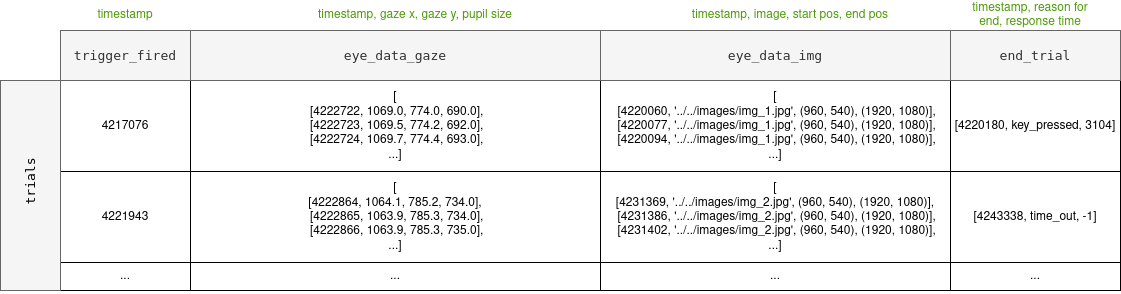
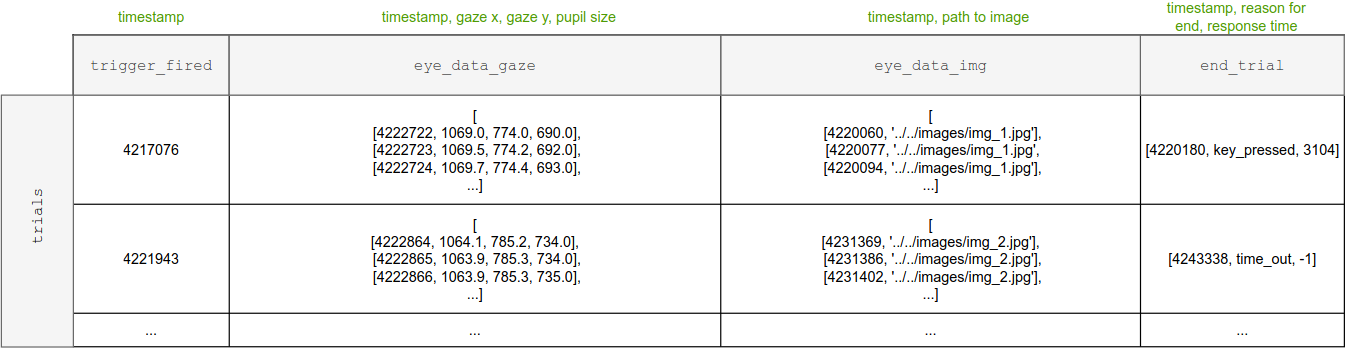
removing redundant information from df

diff --git a/results_parsing.py b/results_parsing.py
@@ -37,9 +37,7 @@ def make_res_df(session_identifier):
                 data_from_line = line.split()
                 img_timestamp = data_from_line[1]  # The timestamp is always in index 1
                 img_name = data_from_line[5]  # The img name (incl relative path) is in index 5
-                start_pos = (int(data_from_line[6]), int(data_from_line[7]))  # Index starting x, y of where to show img
-                end_pos = (int(data_from_line[8]), int(data_from_line[9]))  # Index ending x, y of where to show img
-                image_load_list.append([int(img_timestamp), img_name, start_pos, end_pos])
+                image_load_list.append([int(img_timestamp), img_name])
 
             # [Step 2b]: Start capturing all gaze information (here we check for gaze data events).
             if not any(item.isalpha() for item in line.split()):
@@ -95,9 +93,9 @@ def make_res_df(session_identifier):
 
 
 # For debugging:
-# test_session_identifier = 'test_2023_12_02_13_45'
+test_session_identifier = 'test_2023_12_14_11_38'
 # convert_edf_to_ascii(test_session_identifier)
-# make_res_df(test_session_identifier)
+make_res_df(test_session_identifier)
 # To read back the pickled result:
 # df = pd.read_pickle(f'results/{test_session_identifier}/{test_session_identifier}')
 

diff --git a/README.md b/README.md
@@ -62,7 +62,7 @@ The important events from the EDF file are captured and stored in a Pandas dataf
   * `eye_data_gaze`: This is a list of list where each nested list is either:
     * A timestamp (int) of when a blink event occured.
     * A timestamp (int) with corresponding eye gaze coordinates x and y (floats) and the pupil size (float).
-  * `eye_data_img`: This is a list of lists where each nested list is a timestamp (int), the name of the image displayed at this time complete with path (string), and 2 sets of x, y coordinates (tuples) demonstrating the start and end positions of the gaze-contingent window.
+  * `eye_data_img`: This is a list of lists where each nested list is a timestamp (int) and the path to the image displayed in this trial (string). Thus it conveys each time the gaze-contingent image shown on the screen was updated. 
   * `end_trial`: This is a list containing a timestamp (int) of when the trial ended, the event that caused it to end (string), and the response time (int).
 
 ![Output sample](resources/resulting_dataframe.png)
